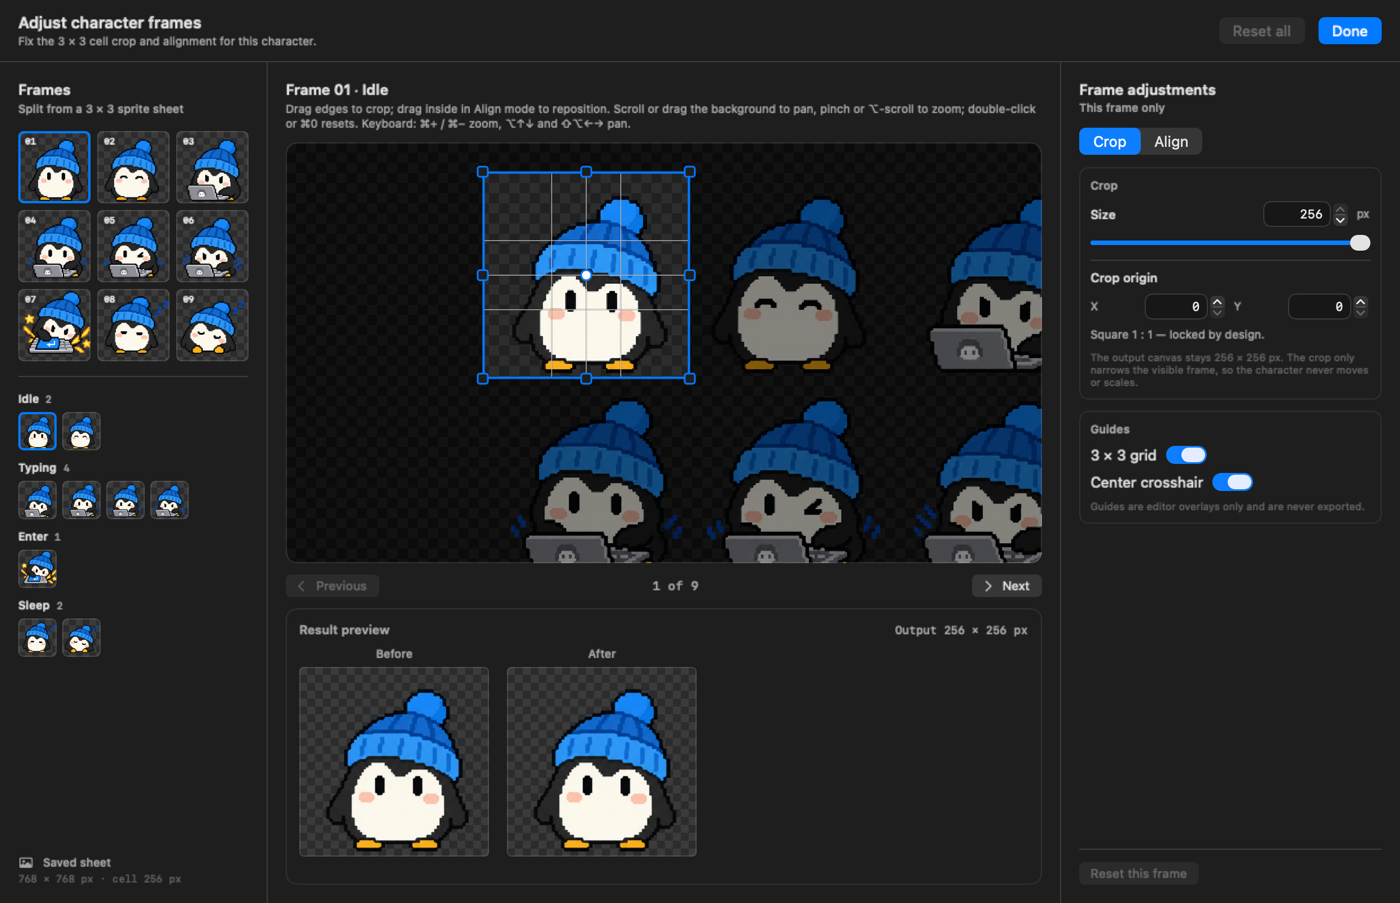
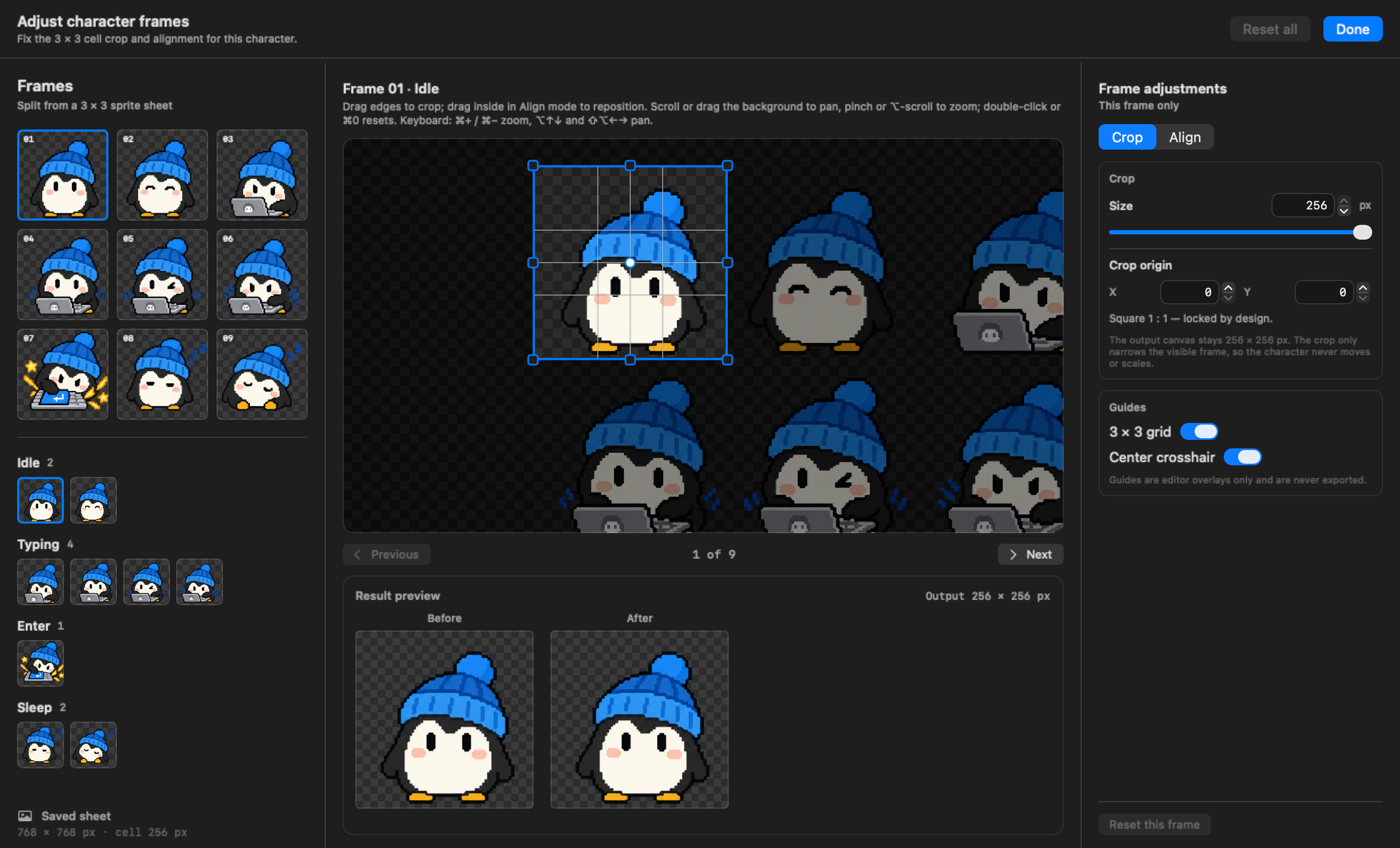
feat(character): scale the frame navigator for easier selection (#151)
Grow the editor's left navigator by roughly 1.3×: widen the sidebar and window,
enlarge the contact-sheet and semantic-group thumbnails, and scale the group
labels/spacing with it. The compact rail remains unchanged for narrow windows.

Verified: format, localization check, SwiftLint strict, safety, complexity,
195 app tests, Release build.

diff --git a/Sources/WaddlyApp/FrameEditorSidebar.swift b/Sources/WaddlyApp/FrameEditorSidebar.swift
@@ -13,10 +13,10 @@ struct FrameEditorSidebar: View {
     }
 
     var body: some View {
-        VStack(alignment: .leading, spacing: 13) {
+        VStack(alignment: .leading, spacing: 16) {
             VStack(alignment: .leading, spacing: 3) {
                 Text(localization.string(for: .frameEditorFrames))
-                    .font(.system(size: 13, weight: .semibold))
+                    .font(.system(size: 15, weight: .semibold))
                 Text(localization.string(for: model.isSheetMode
                         ? .frameEditorFramesSubtitle
                         : .frameEditorFramesSubtitleIndividual))
@@ -34,12 +34,12 @@ struct FrameEditorSidebar: View {
             if let sourceName = model.sourceName, let dimensions = model.sourceDimensionsDescription {
                 VStack(alignment: .leading, spacing: 2) {
                     Label(sourceName, systemImage: "photo")
-                        .font(.system(size: 10, weight: .medium))
+                        .font(.system(size: 11, weight: .medium))
                         .foregroundStyle(.secondary)
                         .lineLimit(1)
                         .truncationMode(.middle)
                     Text(dimensions)
-                        .font(.system(size: 9, design: .monospaced))
+                        .font(.system(size: 10, design: .monospaced))
                         .foregroundStyle(.tertiary)
                         .lineLimit(1)
                 }
@@ -55,8 +55,8 @@ struct FrameEditorSidebar: View {
 
     private var contactSheet: some View {
         LazyVGrid(
-            columns: Array(repeating: GridItem(.flexible(), spacing: 6), count: 3),
-            spacing: 6
+            columns: Array(repeating: GridItem(.flexible(), spacing: 8), count: 3),
+            spacing: 8
         ) {
             ForEach(SpriteFrameSlot.allCases, id: \.self) { slot in
                 FrameThumbnailTile(
@@ -80,19 +80,19 @@ struct FrameEditorSidebar: View {
     }
 
     private var groups: some View {
-        VStack(alignment: .leading, spacing: 9) {
+        VStack(alignment: .leading, spacing: 12) {
             ForEach(Self.groupOrder, id: \.self) { category in
                 let slots = SpriteFrameSlot.slots(for: category)
-                VStack(alignment: .leading, spacing: 5) {
-                    HStack(spacing: 5) {
+                VStack(alignment: .leading, spacing: 6) {
+                    HStack(spacing: 6) {
                         Text(category.title(using: localization))
-                            .font(.system(size: 10, weight: .semibold))
+                            .font(.system(size: 12, weight: .semibold))
                         Text("\(slots.count)")
-                            .font(.system(size: 9, weight: .medium, design: .monospaced))
+                            .font(.system(size: 10, weight: .medium, design: .monospaced))
                             .foregroundStyle(.secondary)
                         Spacer()
                     }
-                    HStack(spacing: 5) {
+                    HStack(spacing: 6) {
                         ForEach(slots, id: \.self) { slot in
                             FrameThumbnailTile(
                                 slot: slot,
@@ -108,7 +108,7 @@ struct FrameEditorSidebar: View {
                             ) {
                                 model.select(slot)
                             }
-                            .frame(width: 34, height: 34)
+                            .frame(width: 44, height: 44)
                         }
                         Spacer(minLength: 0)
                     }
@@ -122,7 +122,7 @@ struct FrameEditorSidebar: View {
 
     private var legacyNotice: some View {
         Label(localization.string(for: .frameEditorLegacyNotice), systemImage: "info.circle")
-            .font(.system(size: 10))
+            .font(.system(size: 11))
             .foregroundStyle(.secondary)
             .fixedSize(horizontal: false, vertical: true)
     }

diff --git a/Sources/WaddlyApp/CharacterFrameEditor.swift b/Sources/WaddlyApp/CharacterFrameEditor.swift
@@ -6,10 +6,10 @@ import WaddlyCore
 /// editor asks for a child-sized surface when the display allows it and falls back to a still-usable
 /// minimum on smaller screens.
 enum FrameEditorMetrics {
-    static let preferredSize = NSSize(width: 1240, height: 800)
+    static let preferredSize = NSSize(width: 1320, height: 800)
     static let minimumSize = NSSize(width: 1040, height: 700)
-    static let compactBreakpoint: CGFloat = 1120
-    static let sidebarWidth: CGFloat = 236
+    static let compactBreakpoint: CGFloat = 1160
+    static let sidebarWidth: CGFloat = 306
     static let inspectorWidth: CGFloat = 300
     static let compactInspectorWidth: CGFloat = 268
     static let compactRailWidth: CGFloat = 58
